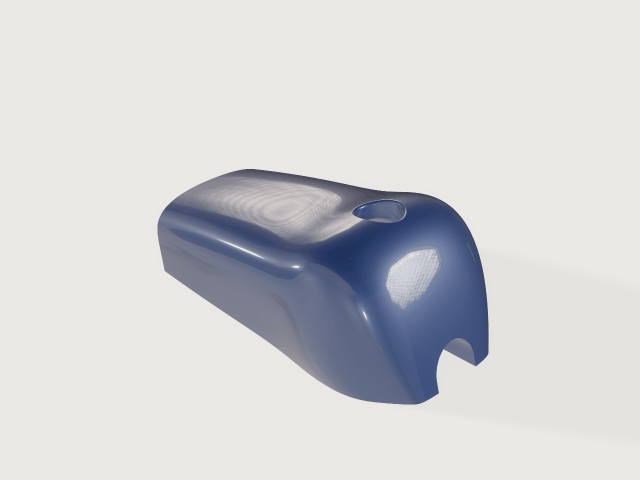
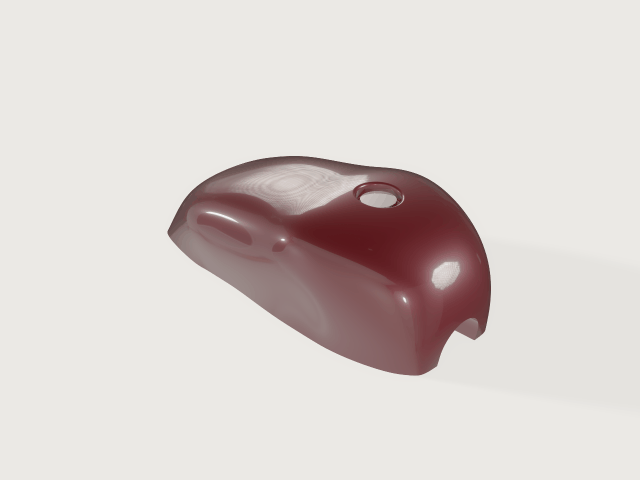
Tank, second layout: leaning sections (overhanging nose, tail sloping to the seat), knee waist, full-length tunnel; view.render camera; findings on the hold, the zebra pole and the studio grid

Changed region(s): [[0.2188, 0.3125, 0.7812, 0.8438]]

diff --git a/crates/engine/src/commands.rs b/crates/engine/src/commands.rs
@@ -106,8 +106,8 @@ pub(crate) static SPECS: &[CommandSpec] = &[
         "Checks every body for validity and lists every problem: failed variables, failed features (with causedBy as in document.inspect), defects of bodies, each body held to the document's cap on any entity's own tolerance, broken assertions, and a sketch line the solver shrank to a point under two directions or more (horizontal and vertical, or a direction and a perpendicular or an angle: a contradiction it reports as holding; with line and constraints). ok is true when there is none. warnings (never part of ok), each with kind: assertion (one not proven either way), collapsedLine (a line with no length under one direction), lostFace (a face colour whose face is gone: it colours nothing, as lostFaces in document.inspect says, with feature and face), underConstrained (one entry for every sketch with degrees of freedom left, listed under sketches with feature, name and dof), plainAngle (a parameter read as an angle, in a document whose angle unit is degrees, whose value is a plain number with a pi in it that has no unit and is not inside sin, cos or tan, itself or in a variable it uses: `2 * pi / n` is a few degrees there; with feature, name, parameter and expr; the value is kept). loose lists the bodies with entities that have a tolerance of their own (edges, vertices, the largest), when there are. With feature only that feature is checked (whether it failed, its own body, and deep its boolean), its status is given under status (ok, failed, suppressed, rolledBack), and a feature that is suppressed or after the rollback marker is a problem (nothing is built to check): what an edit at the end of a long history did, without checking the rest again. deep also looks for bodies that pass through themselves (faces crossing, shells overlapping or nested the wrong way), on a fine mesh, and that the shells of a body of several are the outsides of lumps and their cavities, each cavity in the material of one lump, from the exact geometry: slower, and what it reports is certain (deeper than the mesh could be off); doubts are counted under marginal; and for two shells of a body that touch at a vertex or the middle of an edge (zero thickness). deep also holds the body of every boolean feature to what every exact boolean of its target and tool keeps (volumes within bounds, the target unchanged out of the tool's reach, seeded points; counted under booleansChecked), and meshes every body with loose entities at a thousandth of its size, every point of a face's mesh on its surface or, on its boundary, within the tolerance of the edge or vertex it lies on (counted under looseMeshesChecked).", doc: true, document_check),
     spec!("document.measure", "Measure", r#"{"feature": id or name = all bodies, "bound": boolean = false}"#,
         "Returns volume, area and centroid, per body and in total, in document units. With bound also volumeBound and areaBound, per body and summed: how far the volume and the area can be off by the integrator's own account (every sum refined until two in a row agree; an estimate, not a guarantee). A body with a material (body.material) also has its mass (kg) and its inertia tensor about its centroid (kg times the length unit squared, along the model's axes), and its appearance (body.appearance); the total has the mass when every body has one.", doc: true, document_measure),
-    spec!("view.render", "Render", r#"{"path": string, "width": integer = 800, "height": integer = 600, "view": "iso|front|back|left|right|top|bottom" = "iso", "projection": "perspective|orthographic" = "perspective", "zoom": number = 1, "box": [[x, y, z], [x, y, z]] = the whole model, "mode": "shaded|ids" = "shaded", "section": {plane, feature, point, normal, offset, flip, cap} = none, "tolerance": number = the picture's, "background": "light|dark" = "light", "look": {mode: "plain|studio" = "studio", environment: "studio|outdoor|workshop" = "studio", exposure: stops = 0, rotation: degrees = 0, ground: boolean = true, ao: boolean = true, shadows: boolean = true, tonemap: "agx|aces|linear" = "agx", light: [azimuth, elevation] = the environment's, background: "environment|plain" = "environment", reflections: boolean = true, contactShadows: boolean = true, specularShadow: boolean = true, groundReflection: 0 to 1 = 0, bloom: 0 to 1 = 0.04, dof: {fstop: number = 2.8, focus: distance or [x, y, z] = the model's centre} = null, accumulate: frames 1 to 256 = 1} = the plain look, "analysis": {mode: "zebra|highlight|curvature|draft|none" = "none", stripes: 1 to 512 = 16, direction: degrees = 0, width: 0 to 1 = 0.5, offset: periods = 0, pull: [x, y, z] = [0, 0, 1], minDraft: degrees = 1, curvature: "gaussian|mean|max" = "gaussian", range: [low, high] = from the values, combs: {edges: boolean or [edge name, ...], iso: [{face, feature, u or v from 0 to 1}], scale: number = automatic, density: 2 to 400 = 40} = null} = none, "renderer": "auto|cpu|gpu" = "auto"}"#,
-        "Renders the bodies, on the window's light viewport background (235, 233, 229; background: dark for the renderer's dark grey). Writes a PNG under the write root when path is given, otherwise returns it as base64. Without tolerance the bodies are meshed for the picture: between a quarter and half a pixel of the picture where it shows the model nearest, never finer than the floor (2e-4 of the diagonal of the box around the bodies), at most 12 degrees per chord, within a total budget of a million triangles (coarser, and coarsened true, when the picture would have more), so a close-up box, a zoom or a larger picture is finer; the same params give the same picture, and the same view, size, zoom and box (or camera, in view.pick) give the same tolerance. With tolerance, at that chordal tolerance alone. A body too fine for the tessellator at it is meshed coarser rather than refused. The result says the tolerance (document units), maxAngle (degrees, or null) and coarsened (true when the tolerance was coarsened for the triangle budget or for a body). orthographic shows lengths across the view to scale. box frames the region between two opposite corners (document units) instead of the whole model, seen from outside the model. zoom magnifies about the centre of the picture (2 shows half as much, twice as large; from 0.01 to 1000). section cuts the picture open with a plane, to look inside a shell, a pocket or a cavity; the document does not change. It is an object: the plane is plane (xy, yz or zx, a datum plane by id or name, or a flat face by its persistent name, with feature to say which body when several have that face) or point and normal ([x, y, z] each), moved by offset (a number, default 0) along its normal; what lies on the side the normal points to is not drawn (a face's normal points out of its body; flip: true keeps the other half). Where the plane passes through the inside of a body the cut is closed with a flat cap in a colour of its own (cap: false leaves it open). The result then has section: {point, normal, range}, the plane as it was used and the offsets between which it passes through the model. look lights the bodies: the studio look (an environment, soft shadows, ambient occlusion, a ground that catches shadows, a tone curve), and its second layer: reflections of the model in its glossy faces and in the ground (the environment where a reflected ray finds nothing on the picture), contact shadows, the key light's shadow on the specular light, bloom, depth of field of a thin lens with fstop focused at focus (a distance along the view or a point; the model's centre by default; a lens of the document's length unit), and accumulate frames averaged into a still, each with its samples moved within the pixel and the lens turned (refused on the CPU when the frames' samples together, width × height × 4 × frames, pass 2^26). A see-through or cut-open picture is lit the same way: the surface behind a see-through front is lit as the front is and blended under it in light, and the cap of a section is lit as a face of its colour. renderer says what draws: cpu the CPU renderer, the reference every other picture is checked against; gpu the session's wgpu renderer on a device without a window (craft3d-cli render, run and serve have one; a session without one refuses), the same picture within the renderers' documented parity; auto (the default) the GPU when the session has one and it can draw, else the CPU. mode ids is always drawn on the CPU (its pixels are read by machine). The result says renderer (gpu or cpu), adapter (the GPU's, when it drew) and rendererFallback (why auto drew on the CPU after all).", doc: true, names: ["section"], view_render),
+    spec!("view.render", "Render", r#"{"path": string, "width": integer = 800, "height": integer = 600, "view": "iso|front|back|left|right|top|bottom" = "iso", "projection": "perspective|orthographic" = "perspective", "zoom": number = 1, "box": [[x, y, z], [x, y, z]] = the whole model, "mode": "shaded|ids" = "shaded", "section": {plane, feature, point, normal, offset, flip, cap} = none, "tolerance": number = the picture's, "background": "light|dark" = "light", "look": {mode: "plain|studio" = "studio", environment: "studio|outdoor|workshop" = "studio", exposure: stops = 0, rotation: degrees = 0, ground: boolean = true, ao: boolean = true, shadows: boolean = true, tonemap: "agx|aces|linear" = "agx", light: [azimuth, elevation] = the environment's, background: "environment|plain" = "environment", reflections: boolean = true, contactShadows: boolean = true, specularShadow: boolean = true, groundReflection: 0 to 1 = 0, bloom: 0 to 1 = 0.04, dof: {fstop: number = 2.8, focus: distance or [x, y, z] = the model's centre} = null, accumulate: frames 1 to 256 = 1} = the plain look, "analysis": {mode: "zebra|highlight|curvature|draft|none" = "none", stripes: 1 to 512 = 16, direction: degrees = 0, width: 0 to 1 = 0.5, offset: periods = 0, pull: [x, y, z] = [0, 0, 1], minDraft: degrees = 1, curvature: "gaussian|mean|max" = "gaussian", range: [low, high] = from the values, combs: {edges: boolean or [edge name, ...], iso: [{face, feature, u or v from 0 to 1}], scale: number = automatic, density: 2 to 400 = 40} = null} = none, "renderer": "auto|cpu|gpu" = "auto", "camera": {eye, target, up, projection, fovY, height} = framed by view, projection, zoom and box}"#,
+        "With camera ({eye, target, up} and fovY in degrees, or projection orthographic with height, as view.pick takes it) the picture is the one that camera sees, instead of one framed by view, projection, zoom and box (give one or the other). Renders the bodies, on the window's light viewport background (235, 233, 229; background: dark for the renderer's dark grey). Writes a PNG under the write root when path is given, otherwise returns it as base64. Without tolerance the bodies are meshed for the picture: between a quarter and half a pixel of the picture where it shows the model nearest, never finer than the floor (2e-4 of the diagonal of the box around the bodies), at most 12 degrees per chord, within a total budget of a million triangles (coarser, and coarsened true, when the picture would have more), so a close-up box, a zoom or a larger picture is finer; the same params give the same picture, and the same view, size, zoom and box (or camera, in view.pick) give the same tolerance. With tolerance, at that chordal tolerance alone. A body too fine for the tessellator at it is meshed coarser rather than refused. The result says the tolerance (document units), maxAngle (degrees, or null) and coarsened (true when the tolerance was coarsened for the triangle budget or for a body). orthographic shows lengths across the view to scale. box frames the region between two opposite corners (document units) instead of the whole model, seen from outside the model. zoom magnifies about the centre of the picture (2 shows half as much, twice as large; from 0.01 to 1000). section cuts the picture open with a plane, to look inside a shell, a pocket or a cavity; the document does not change. It is an object: the plane is plane (xy, yz or zx, a datum plane by id or name, or a flat face by its persistent name, with feature to say which body when several have that face) or point and normal ([x, y, z] each), moved by offset (a number, default 0) along its normal; what lies on the side the normal points to is not drawn (a face's normal points out of its body; flip: true keeps the other half). Where the plane passes through the inside of a body the cut is closed with a flat cap in a colour of its own (cap: false leaves it open). The result then has section: {point, normal, range}, the plane as it was used and the offsets between which it passes through the model. look lights the bodies: the studio look (an environment, soft shadows, ambient occlusion, a ground that catches shadows, a tone curve), and its second layer: reflections of the model in its glossy faces and in the ground (the environment where a reflected ray finds nothing on the picture), contact shadows, the key light's shadow on the specular light, bloom, depth of field of a thin lens with fstop focused at focus (a distance along the view or a point; the model's centre by default; a lens of the document's length unit), and accumulate frames averaged into a still, each with its samples moved within the pixel and the lens turned (refused on the CPU when the frames' samples together, width × height × 4 × frames, pass 2^26). A see-through or cut-open picture is lit the same way: the surface behind a see-through front is lit as the front is and blended under it in light, and the cap of a section is lit as a face of its colour. renderer says what draws: cpu the CPU renderer, the reference every other picture is checked against; gpu the session's wgpu renderer on a device without a window (craft3d-cli render, run and serve have one; a session without one refuses), the same picture within the renderers' documented parity; auto (the default) the GPU when the session has one and it can draw, else the CPU. mode ids is always drawn on the CPU (its pixels are read by machine). The result says renderer (gpu or cpu), adapter (the GPU's, when it drew) and rendererFallback (why auto drew on the CPU after all).", doc: true, names: ["section"], view_render),
 ];
 
 /// The command id most like `id`, for "did you mean".
@@ -4508,6 +4508,7 @@ const VIEW_RENDER_PARAMS: &[&str] = &[
     "look",
     "analysis",
     "renderer",
+    "camera",
 ];
 
 /// The colour of curvature combs in `view.render` (the window's theme has
@@ -4608,6 +4609,19 @@ fn render_picture(
     let width = p.integer("width", 16, 4096)?.unwrap_or(800);
     let height = p.integer("height", 16, 4096)?.unwrap_or(600);
     let framing = Framing::from_params(p, "view.render")?;
+    // A camera of the caller's own (as view.pick takes it) instead of the
+    // framed one: for a picture seen from where the model shows best.
+    let given = p
+        .get("camera")
+        .map(|v| crate::pick_cmds::camera_of("view.render", v))
+        .transpose()?;
+    if given.is_some()
+        && let Some(key) = Framing::KEYS.iter().find(|key| p.get(key).is_some())
+    {
+        return fail(format!(
+            "view.render: `{key}` frames the model; with `camera` the picture is the one that camera sees, so give one or the other"
+        ));
+    }
     let (view, orthographic, zoom, look_at) = (
         framing.view,
         framing.orthographic,
@@ -4647,7 +4661,10 @@ fn render_picture(
     let analysis = crate::analysis::analysis_param("view.render", p.get("analysis"))?;
     let aspect = width as f64 / height as f64;
     let pixel = |model: &craft3d_math::Bbox3| {
-        let camera = framing.camera(model, aspect).ok()?;
+        let camera = match given {
+            Some(camera) => camera,
+            None => framing.camera(model, aspect).ok()?,
+        };
         crate::scene::pixel_footprint(&camera, height as u32, model)
     };
     let Some(scene) = session.picture_scene(tolerance, pixel)? else {
@@ -4692,7 +4709,10 @@ fn render_picture(
     // Framed on the bodies' B-rep, as the tolerance was chosen.
     let model = scene.bodies_box;
     let framed = look_at.unwrap_or(model);
-    let camera = framing.camera(&model, aspect)?;
+    let camera = match given {
+        Some(camera) => camera,
+        None => framing.camera(&model, aspect)?,
+    };
     let prepared = look
         .prepared()
         .map_err(|e| CommandError::new(format!("view.render: look: {e}")))?;

diff --git a/crates/engine/src/pick_cmds.rs b/crates/engine/src/pick_cmds.rs
@@ -1200,9 +1200,14 @@ fn camera_json(camera: &Camera) -> Value {
 
 /// The `camera` of `view.pick`.
 fn camera_param(value: &Value) -> Result<Camera, CommandError> {
-    const ID: &str = "view.pick";
+    camera_of("view.pick", value)
+}
+
+/// The `camera` param of command `ID` (`view.pick`, `view.render`): eye,
+/// target, up, and a perspective's `fovY` or an orthographic's `height`.
+pub(crate) fn camera_of(id: &'static str, value: &Value) -> Result<Camera, CommandError> {
     let p = Params::new(
-        ID,
+        id,
         value,
         &["eye", "target", "up", "projection", "fovY", "height"],
     )
@@ -1218,20 +1223,20 @@ fn camera_param(value: &Value) -> Result<Camera, CommandError> {
         };
         parsed.map(Some).ok_or_else(|| {
             CommandError::new(format!(
-                "{ID}: `camera.{key}` must be [x, y, z], numbers within ±1e12"
+                "{id}: `camera.{key}` must be [x, y, z], numbers within ±1e12"
             ))
         })
     };
     let eye = point("eye")?
-        .ok_or_else(|| CommandError::new(format!("{ID}: `camera` needs `eye`, [x, y, z]")))?;
+        .ok_or_else(|| CommandError::new(format!("{id}: `camera` needs `eye`, [x, y, z]")))?;
     let target = point("target")?
-        .ok_or_else(|| CommandError::new(format!("{ID}: `camera` needs `target`, [x, y, z]")))?;
+        .ok_or_else(|| CommandError::new(format!("{id}: `camera` needs `target`, [x, y, z]")))?;
     let up = point("up")?.unwrap_or(Vec3::Z);
     let projection = match p.str("projection")?.unwrap_or("perspective") {
         "perspective" => {
             if p.get("height").is_some() {
                 return fail(format!(
-                    "{ID}: `camera.height` belongs to an orthographic camera; a perspective one takes `fovY`"
+                    "{id}: `camera.height` belongs to an orthographic camera; a perspective one takes `fovY`"
                 ));
             }
             let fov_y_deg = match p.number("fovY")? {
@@ -1239,7 +1244,7 @@ fn camera_param(value: &Value) -> Result<Camera, CommandError> {
                 Some(fov) if fov > 0.0 && fov < 180.0 => fov,
                 Some(_) => {
                     return fail(format!(
-                        "{ID}: `camera.fovY` must be an angle between 0 and 180 degrees"
+                        "{id}: `camera.fovY` must be an angle between 0 and 180 degrees"
                     ));
                 }
             };
@@ -1248,7 +1253,7 @@ fn camera_param(value: &Value) -> Result<Camera, CommandError> {
         "orthographic" => {
             if p.get("fovY").is_some() {
                 return fail(format!(
-                    "{ID}: `camera.fovY` belongs to a perspective camera; an orthographic one takes `height`"
+                    "{id}: `camera.fovY` belongs to a perspective camera; an orthographic one takes `height`"
                 ));
             }
             match p.number("height")? {
@@ -1257,12 +1262,12 @@ fn camera_param(value: &Value) -> Result<Camera, CommandError> {
                 },
                 Some(_) => {
                     return fail(format!(
-                        "{ID}: `camera.height` must be a positive length, at most 1e12"
+                        "{id}: `camera.height` must be a positive length, at most 1e12"
                     ));
                 }
                 None => {
                     return fail(format!(
-                        "{ID}: an orthographic `camera` needs `height`, the model units from the top of the picture to its bottom"
+                        "{id}: an orthographic `camera` needs `height`, the model units from the top of the picture to its bottom"
                     ));
                 }
             }
@@ -1270,7 +1275,7 @@ fn camera_param(value: &Value) -> Result<Camera, CommandError> {
         other => {
             let other: String = other.chars().take(40).collect();
             return fail(format!(
-                "{ID}: unknown `camera.projection` `{other}`; use perspective or orthographic"
+                "{id}: unknown `camera.projection` `{other}`; use perspective or orthographic"
             ));
         }
     };
@@ -1284,7 +1289,7 @@ fn camera_param(value: &Value) -> Result<Camera, CommandError> {
     // view) is refused here, with its reason.
     camera
         .axes()
-        .map_err(|e| CommandError::new(format!("{ID}: `camera`: {e}")))?;
+        .map_err(|e| CommandError::new(format!("{id}: `camera`: {e}")))?;
     Ok(camera)
 }
 

diff --git a/crates/engine/tests/view_render.rs b/crates/engine/tests/view_render.rs
@@ -873,3 +873,44 @@ fn the_default_frame_is_the_box_of_what_the_faces_hold() {
         }
     }
 }
+
+/// `camera` (2026-10-31): the picture is the one a given camera sees, as
+/// `view.pick` takes it. An orthographic camera looking down at the plate
+/// from above, its height the plate's length, shows the 60-unit side
+/// across the picture's height to scale (and the 40-unit side as two
+/// thirds of it); a camera that looks away from the plate shows nothing
+/// of it; framing keys beside `camera`, and a camera without its eye,
+/// are refused with the reason.
+#[test]
+fn a_given_camera_is_the_one_the_picture_is_seen_from() {
+    let mut s = plate(1.0);
+    let shot = shoot(
+        &mut s,
+        json!({"width": 200, "height": 200, "camera": {"eye": [30, 20, 100], "target": [30, 20, 0], "up": [1, 0, 0], "projection": "orthographic", "height": 60}}),
+    );
+    let (w, h) = shot.extent();
+    // Up is +x (60 units over the 200 pixels), across is y (40 of 60).
+    assert!((h as f64 - 200.0).abs() <= 2.0, "{w} x {h}");
+    assert!((w as f64 - 200.0 * 40.0 / 60.0).abs() <= 2.0, "{w} x {h}");
+    let away = shoot(
+        &mut s,
+        json!({"width": 64, "height": 64, "camera": {"eye": [30, 20, 100], "target": [30, 20, 200]}}),
+    );
+    assert_eq!(away.extent(), (0, 0));
+    for (params, reason) in [
+        (
+            json!({"view": "top", "camera": {"eye": [0, 0, 100], "target": [0, 0, 0]}}),
+            "give one or the other",
+        ),
+        (json!({"camera": {"target": [0, 0, 0]}}), "needs `eye`"),
+        (
+            json!({"camera": {"eye": [0, 0, 1], "target": [0, 0, 0], "fovY": 200}}),
+            "between 0 and 180",
+        ),
+        (json!({"camera": "top"}), "camera"),
+    ] {
+        let why = refused(&mut s, params.clone());
+        assert!(why.contains(reason), "{params}: {why}");
+        assert!(why.starts_with("view.render"), "{params}: {why}");
+    }
+}

diff --git a/docs/design/surfacing.md b/docs/design/surfacing.md
@@ -93,7 +93,11 @@ Built 2026-10-30 (surf-ca3) on stage 2: `hold_tangent` localises three rows when
 | A knee pad as its own patch held G2 on all sides | two edges of one family in curvature to spline faces and corners with different twists are refused | not built (stage 4, corner blends): the recesses are drawn into the side's curves, so they lie inside one C² face |
 | Closed sections with guides, a sweep along two rails, larger networks | refused or absent | not needed: crown and sides are networks of five stations |
 
-**Layout.** The crown is a network of five sections (live splines through five points, so every point is a formula of the variables) across a spine and two shoulder lines; each side is a network of the crown's edge (by name) and a floor line, crossed by five curves hanging from the edge, the edge held in curvature (`"kind": "curvature"`); the sheets are sewn and a block is cut down to them (`intersect`). A filler recess (a cylinder subtracted, its rim and floor rounded), a tunnel for the frame (an arch extruded through, `cut`) and a cap. Public parameters: length, width, crown height, knee depth; `check-range` passes all 25 points (16 corners, 8 random, the defaults): the seams are proven G2 everywhere in the box. Assertions: both seams `continuity` at least 2, a closed solid of 10 to 60 litres, no wider than 1.25 W, the cap clear of the tank; the volume is an output in litres (31 L at the defaults).
+**Layout (second, 2026-10-31, after the coordinator's review).** The crown is a network of eight sections across a spine and two shoulder lines. Each section lies in a plane `x = X + K (z − z_spine)` through three points (`datum.plane`): leaning forward at the nose (`K` 0.5: the nose overhangs the bottom a little), backward at the tail (`K` −0.45: the tail slopes down and in towards the seat), upright in the middle; the first and the last section lie below the floor, so the crown closes the tank at both ends and no flat face is left. Every point is a formula of the parameters (live splines through points). Each side is a network of the crown's edge and a floor line drawn on the plan (a live spline below the floor), crossed by eight curves in upright planes through the shoulder points, the edge held in curvature. The sheets are sewn and a block is cut down to them (`intersect`); a filler recess, a tunnel the whole length (an arch extruded through, `cut`) and a cap. Public parameters: length, width, crown height, knee depth; `check-range` passes all 25 points. Assertions: both seams `continuity` at least 2, a closed solid of 10 to 60 litres, no wider than 1.25 W, the cap clear of the tank; the volume is an output in litres (25.6 L at the defaults).
+
+**Finding 4: the curvature hold takes over the inner control points of short crossing curves.** A side curve through four points is a cubic of four control points; the tangent and curvature holds move its second and third, so all that is left of the designer's curve is its ends: the first layout's knee recesses (28 mm drawn into the curves) moved the surface by less than 2 mm. Curves through more points keep their lower part, but where they leave the shoulder at another angle than the crown's tangent plane the change is large and the stripes ripple (five and six points tried; one refused because the hold moved the second row further than the first span). What works: four-point curves whose lower half carries the bulge and the knee, and the knee drawn into the floor line too, so the Gordon surface's ruled part (the edge and the floor line blended across) carries it up the side: a single dish in the zebra and highlight lines, a saddle and a bump beside it, the waist visible from above. Owed: a hold that changes a crossing curve only within the first knot span of its own (the fair profile is in parameter; a curve with more spans would keep its shape).
+
+**Finding 5: the zebra's converging stripes on the crown are the analysis's own pole, not a patch corner.** The stripes converge to a point on the crown near the filler; turning the stripes' direction 45° moves the point (`tank-zebra-front.png` against `tank-zebra-front-dir45.png`), and highlight lines, which do not depend on the view, run parallel and even over the whole crown (`tank-highlight-lines.png`). Zebra stripes are the angle of the reflected ray about the tubes' axis (*Stage 1*); where the reflected ray runs along the axis that angle is undefined, and every surface whose normals sweep through that direction shows such a point. No patch corner or collapsed edge lies in the crown (its four corners are on its boundary, two of them below the floor).
 
 **Finding 1: the G2 proof's rounding floor on a long seam of many spans.** At the default tolerances (1e-6 mm, 1e-9 rad) the 0.69 m seam of a seven-station side was refused: the measure's bounds were 2e-11 to 7e-10 per mm against a curvature threshold `min(angular / L, 2 tol / L²)` of 1.5e-12 (the values found were 0: the seam is exact). Measured on that seam: the side's degree along it 10 (the crown's 3 raised, plus the field terms), across 3 on knots a quarter-span apart (the fair profile), so the second row's coefficients are bounded through `S₂ = 1536` times the net's magnitude `M = 285 mm` (about the box middle of the edge), and the residual polynomials of degree `4p + 20q = 100`; the bounds that fail are the twist and the curvature along the edge, which differentiate the rows along it twice (`p²/Δ²`). The floor is relative: scaling the model does not move it (the threshold and the rounding scale alike), while the fin (one span along) passes. Five stations instead of seven brought the bounds to about 1e-11; the tank states 1e-3 mm and 1e-6 rad as its first step (a curvature threshold of 1.3e-9 per mm over its 0.77 m seam: a radius of 300 mm held to 0.1 µm, far inside any class-A specification). Owed, for long seams at the default tolerances: the rows written per Bézier piece about a point of the piece (the formation error then of the piece's size, not the edge's) and the sums `Σ|cᵢ|` taken at the line rather than from the shortest span of the whole knot vector.
 

diff --git a/docs/examples/README.md b/docs/examples/README.md
@@ -38,4 +38,4 @@ or opens a saved file.
 | ![Sheet-metal bracket](channel.png) | **[Sheet-metal bracket](channel.json)**: a square base with a large and two small holes bent up into two flanges (`feature.sheetMetal`, inner radius 2 mm, K-factor 0.5); steel. With K = 0.5 the neutral layer is the middle, so the volume is the flat pattern's area times the thickness; asserts it and the bend radius. |
 | ![G2 fin](fin.png) | **[G2 fin](fin.json)**: a fin laid through two splines and two lines (`feature.surface.network`) whose edge on the post is held in curvature (`"kind": "curvature"`, G2): reflections run on across the seam. Post and fin in one red car paint, so the reflections show the seam carrying on smoothly; asserts the post's volume. |
 | ![Lamp shade](shade.png) | **[Lamp shade](shade.json)**: a wall lamp. Its shade is a developable surface between two half circles at different heights (`feature.developable`, a half cone frustum), given a thickness about its middle (`feature.plate`, `side: "mid"`) with a warm subsurface glow, on a wooden wall plate with an arm and a bulb. A developable has no Gaussian curvature, so the plate's volume is its area times the thickness; asserts it within 0.1 %, and that the bulb clears the shade by 5 mm. |
-| ![Fuel tank](tank.png) | **[Fuel tank](tank.json)**: a motorcycle fuel tank surfaced the class-A way, in deep blue paint under a clear coat. The crown is a network of five sections across a spine and two shoulder lines (`feature.surface.network`; the shoulder lines lie in planes leaning out, `datum.plane` through three points, so the tank is wider where it is higher); each side is a network of five curves hanging from the crown's edge, held in curvature (`"kind": "curvature"`, G2) to the crown, the knee recesses drawn into its curves; crown and sides are sewn along their seams (`feature.boolean` with `"op": "sew"`: their surfaces touch along the whole edge, which a union cannot intersect), and a block is cut down to them. A filler recess with rounded rim and floor, a tunnel underneath for the frame, a cap. Length, width, crown height and knee depth are public parameters (`craft3d-cli check-range` passes all 25 points). The tolerances come first (`document.setTolerance`: 1 µm and 1e-6 rad, what a 0.7 m seam is proven G2 to). Asserts both seams G2 (`measure.continuity`), a closed solid of 10 to 60 litres, the width, and the cap in its recess; the volume is an output in litres (`variable.measure` with `"unit": "L"`). |
+| ![Fuel tank](tank.png) | **[Fuel tank](tank.json)**: a motorcycle fuel tank surfaced the class-A way, in a deep red paint under a clear coat. The crown is a network of eight sections across a spine and two shoulder lines: the sections lie in planes that lean (`datum.plane` through three points), forward at the nose so that it overhangs a little, backward at the tail so that it slopes down and in towards the seat; the shoulder lines lie in planes leaning out, so the tank is wider where it is higher. Each side is a network of eight curves hanging from the crown's edge to a floor line drawn on the plan, held in curvature (`"kind": "curvature"`, G2) to the crown; the knee recesses are drawn into the side curves and the floor line, where the tank has its waist. Crown and sides are sewn along their seams (`feature.boolean` with `"op": "sew"`: their surfaces touch along the whole edge, which a union cannot intersect), and a block is cut down to them. A filler recess with a rounded rim and floor, a tunnel the whole length underneath for the frame, a cap. Length, width, crown height and knee depth are public parameters (`craft3d-cli check-range` passes all 25 points). **The tolerances come first and are not the default:** `document.setTolerance` sets 1 µm and 1e-6 rad, because at the default 1e-9 rad the G2 proof of a 0.77 m seam of many spans stops at its rounding floor (the seam is exact; the bound is not tight enough; see `docs/design/surfacing.md` › *The class-A tank*). Asserts both seams G2 (`measure.continuity`), a closed solid of 10 to 60 litres, the width, and the cap in its recess; the volume is an output in litres (`variable.measure` with `"unit": "L"`). Seen best from three-quarters front with the key light high (`view.render` with `camera`, `look.light`). |

diff --git a/docs/design/rendering.md b/docs/design/rendering.md
@@ -1190,3 +1190,8 @@ The CPU renderer left out every triangle with a corner at or behind the eye plan
 - *Picking from inside*, 4.9 million triangles (a sphere at 2·10⁻⁶), release, per pick: outside 112 ms, inside 130 ms before (a copy of the clipped mesh per pick) and 131 ms after (clipped as looked at): the copy was not what it cost; a pick looks at every triangle either way.
 - *The GPU's origin* (positions go to it relative to a centre) is now the centre of the triangles' corners, not of every position: a far vertex no triangle used cost the drawn ones their `f32` precision (found by the parity scene with such a vertex: every pixel's shading off).
 - *Tests*: `render/tests/near_clip.rs`: a floor standing 1 above it looking level, at 10⁻³, 1, 10³ and 10⁶ model units: every row below the horizon is the floor, every row above is empty, the depth at each pixel the closed form `s / (r / (h/2) · tan(fov/2))` to 10⁻⁹, and a pick there on the floor at the closed-form distance (the picture was empty before); inside a closed block at 10⁻³ and 1, near a corner and against a wall, every pixel a face; a comb through the eye plane drawn in front; triangles wholly behind the eye, at the eye, with a NaN or a huge corner, with values per vertex: no panic; the same picture twice. `clip.rs`: whole, gone, triangle and quadrilateral; a sharp edge with vertices of its own cut at one point, bit for bit; a camera outside the box borrows the mesh; the near plane ignores vertices no triangle uses and grows by the cap's margin. `gpu/tests/parity.rs` › `a_camera_close_to_or_inside_the_model_matches_the_cpu_renderer` (skimming a sphere just above its pole; inside it; 0.025 above its pole looking down, the case that found it, also with an infinite and a far vertex no triangle uses; a sphere of radius 10⁻³ from inside; inside a block near its corner) and `gpu/tests/section.rs` › `a_camera_inside_a_cut_open_body_matches_the_cpu_renderer` (inside a capped section, and just outside the box within the cap's margin): on every adapter within the usual tolerances; without the clipping 1513 ids differ in the block and 5918 distances over the pole. The tolerances needed nothing.
+
+
+### Grainy highlights on a class-A tank (2026-10-31)
+
+The coordinator saw a grainy, dithered pattern inside the clear coat's highlights on the class-A tank in the studio environment. Isolated: the pattern is the same bit for bit with screen-space reflections, ambient occlusion, the specular shadow, all shadows off, and with one frame or eight (`speck/isolate.png` in the run's evidence), and a car-paint sphere shows it too; it is the environment picture itself. `assets/environments/studio.hdr` (1024 × 512) has two octagonal softboxes with egg-crate grids in front of them, and a clear coat of roughness 0.04 on a gently curved panel is a mirror that magnifies them: the grid is reflected. Not a renderer defect. The tank's pictures use the workshop environment (windows, no grid) with the ACES curve, as the thumbnails do since METHOD v4, and the key light raised (`look.light` [200, 78]) so its shadow falls under the body and it stands on the ground. Owed, if wanted: a studio picture with plain softboxes, or the studio environment turned so the grids are not what a class-A panel reflects.

diff --git a/docs/roadmap.md b/docs/roadmap.md
@@ -562,7 +562,7 @@ The first version for people outside the project (0.1.0); it does not wait for t
 - Traces in the window: both window paths draw them (they built their marks without them), `view.trace {grow}` draws one up to the moment shown, a deep violet 3 points wide, the studio look's options panel, and status-bar answers in words instead of raw JSON ([`design/motion.md`](design/motion.md)) (2026-10-30)
 - Pictures without a window on the GPU and an animation renderer: `view.render` and `view.replay` draw on the CLI's and `serve`'s headless wgpu renderer when there is an adapter (`renderer: auto|cpu|gpu`, the CPU the oracle and the fallback, parity tested), and `view.replay` renders animations (variable tracks with easing, the timeline, a camera path with orbit and dolly, the look, fps and duration) to PNGs or, through an external ffmpeg, MP4, WebM or GIF ([`design/rendering.md`](design/rendering.md) › *Headless GPU*, *Animations*) (2026-10-30)
 
-- Freeform surfacing, the class-A fuel tank (`docs/examples/tank.json`, the start screen's new Showcase section): two network sheets sewn along the edges they share without intersecting them (`feature.boolean {"op": "sew"}`, `boolean::sew_sheets` on `topo::sew`, format 59), the document's linear and angular tolerances set by a command (`document.setTolerance`, `file.new {angular}`), litres and millilitres as units; both G2 seams proven by `measure.continuity` over the whole parameter range (`check-range`, 25 points) ([`design/surfacing.md`](design/surfacing.md) › *The class-A tank*) (2026-10-31)
+- Freeform surfacing, the class-A fuel tank (`docs/examples/tank.json`, the start screen's new Showcase section): two network sheets sewn along the edges they share without intersecting them (`feature.boolean {"op": "sew"}`, `boolean::sew_sheets` on `topo::sew`, format 59), the document's linear and angular tolerances set by a command (`document.setTolerance`, `file.new {angular}`), litres and millilitres as units, `view.render {camera}` (a camera of the caller's, as `view.pick` takes it); both G2 seams proven by `measure.continuity` over the whole parameter range (`check-range`, 25 points) ([`design/surfacing.md`](design/surfacing.md) › *The class-A tank*) (2026-10-31)
 - Freeform surfacing, fair G2 seams: the change across a curvature edge spread by a profile of least curvature variation, so the guide's fin no longer swings beside its seam ([`design/surfacing.md`](design/surfacing.md)) (2026-10-30)
 - Freeform surfacing, stage 1 (analysis): zebra stripes, highlight lines, a curvature map from the exact surfaces and draft drawn by both renderers (CPU oracle, GPU within 2 levels outside the band and the decisions in doubt), curvature combs on edges and iso-curves, `ui.set`/`view.render` `analysis`, the Analysis toggle with a legend, the measures `draft` and `curvature` at a point ([`design/surfacing.md`](design/surfacing.md) › *Stage 1*) (2026-10-30)
 - Stripes without moiré: zebra and highlight lines filtered over each sample's footprint in phase (exact derivatives on the CPU, `dpdxFine` on the GPU), so stripes finer than a pixel fade to their mean, also below the highlight lines' grazing bound ([`design/surfacing.md`](design/surfacing.md) › *Band limit*) (2026-10-31)
